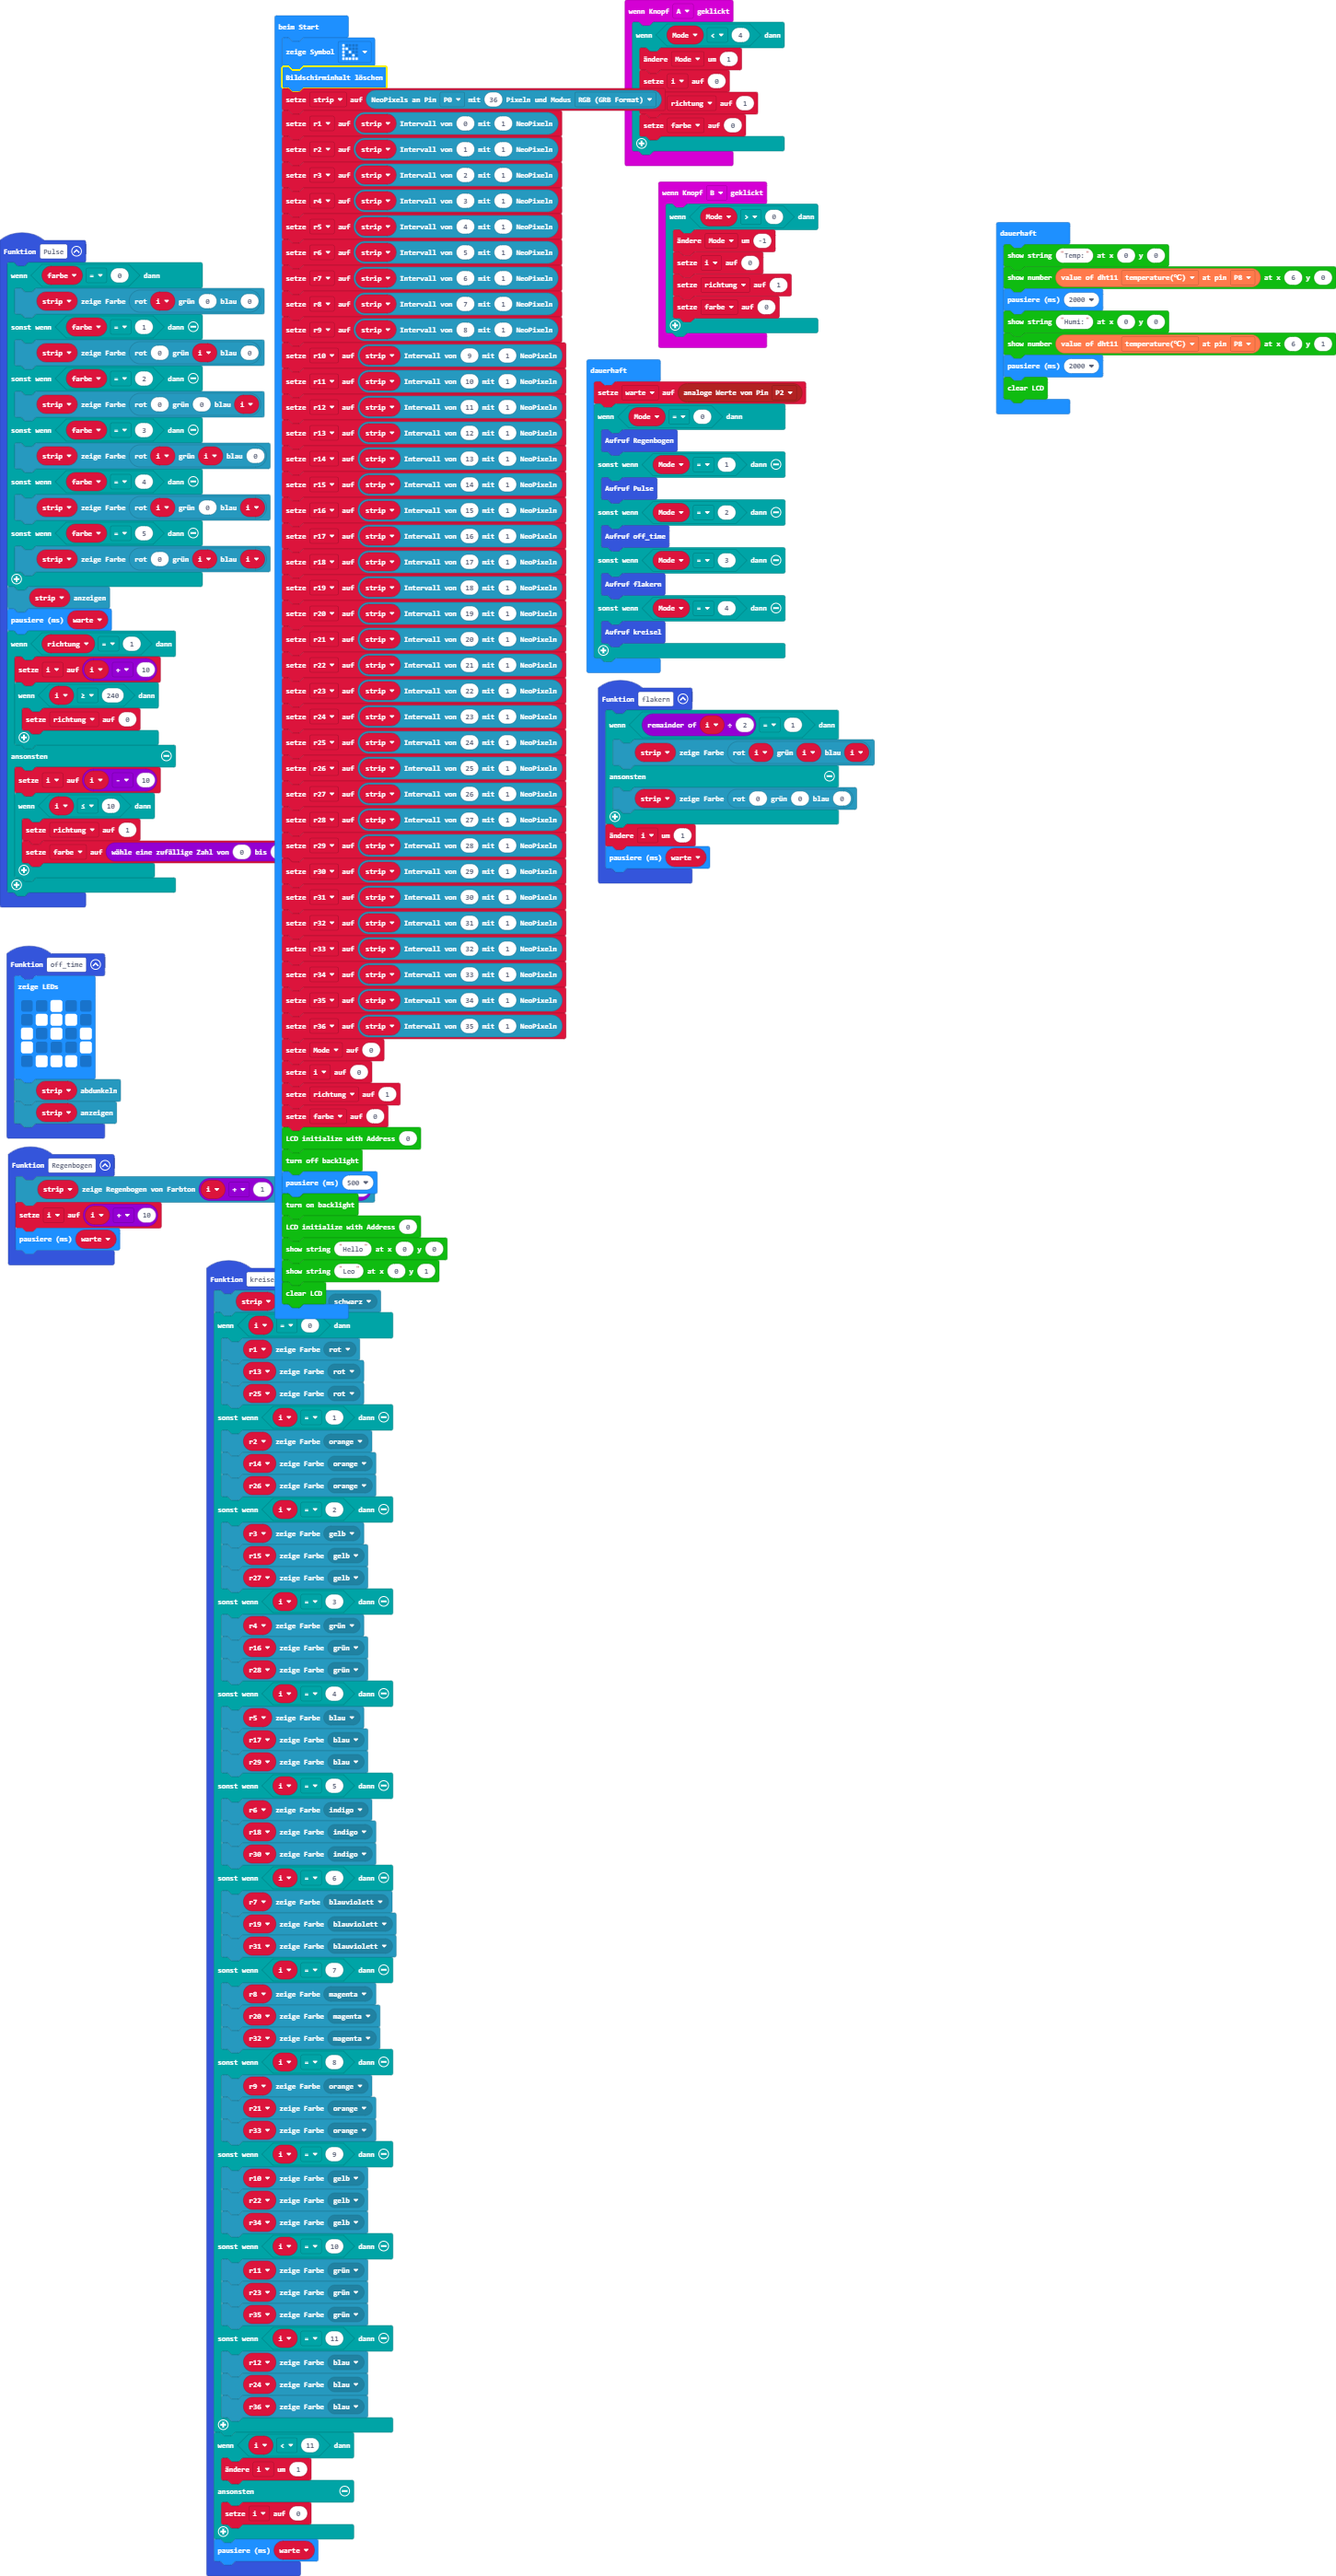
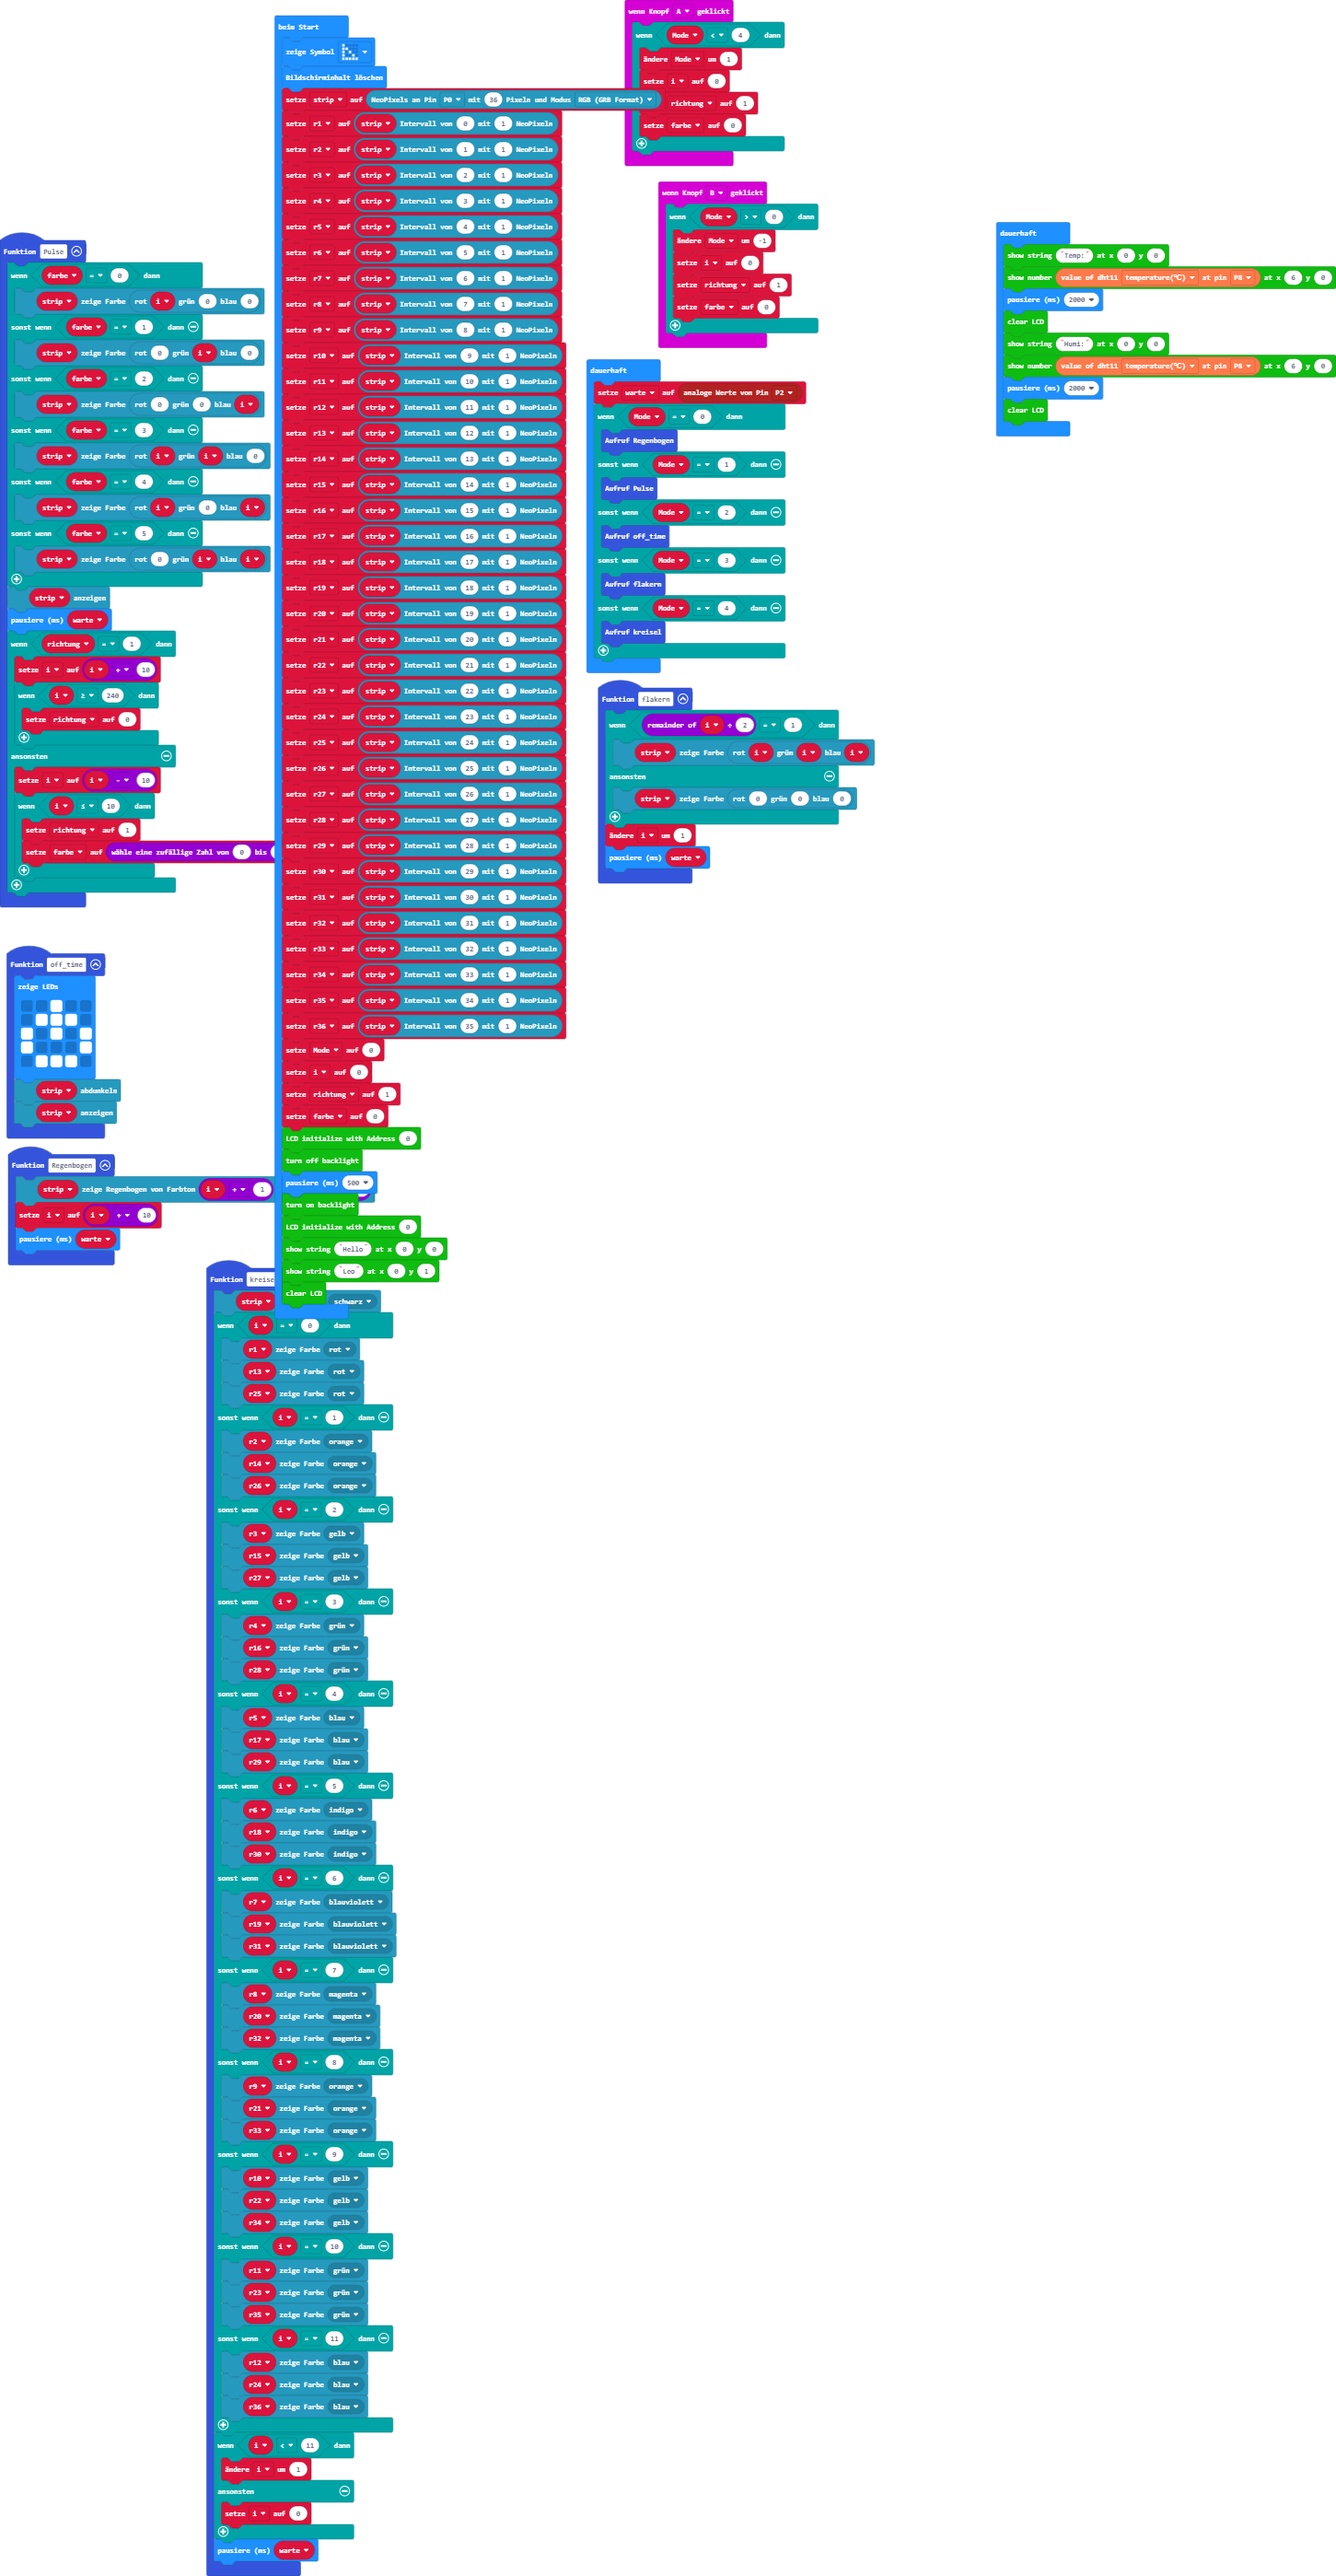
Updated

Changed region(s): [[0.7443, 0.0933, 1.0, 0.1866]]

diff --git a/main.ts b/main.ts
@@ -223,8 +223,9 @@ basic.forever(function () {
     I2C_LCD1602.ShowString("Temp:", 0, 0)
     I2C_LCD1602.ShowNumber(Environment.dht11value(Environment.DHT11Type.DHT11_temperature_C, DigitalPin.P8), 6, 0)
     basic.pause(2000)
+    I2C_LCD1602.clear()
     I2C_LCD1602.ShowString("Humi:", 0, 0)
-    I2C_LCD1602.ShowNumber(Environment.dht11value(Environment.DHT11Type.DHT11_temperature_C, DigitalPin.P8), 6, 1)
+    I2C_LCD1602.ShowNumber(Environment.dht11value(Environment.DHT11Type.DHT11_temperature_C, DigitalPin.P8), 6, 0)
     basic.pause(2000)
     I2C_LCD1602.clear()
 })
